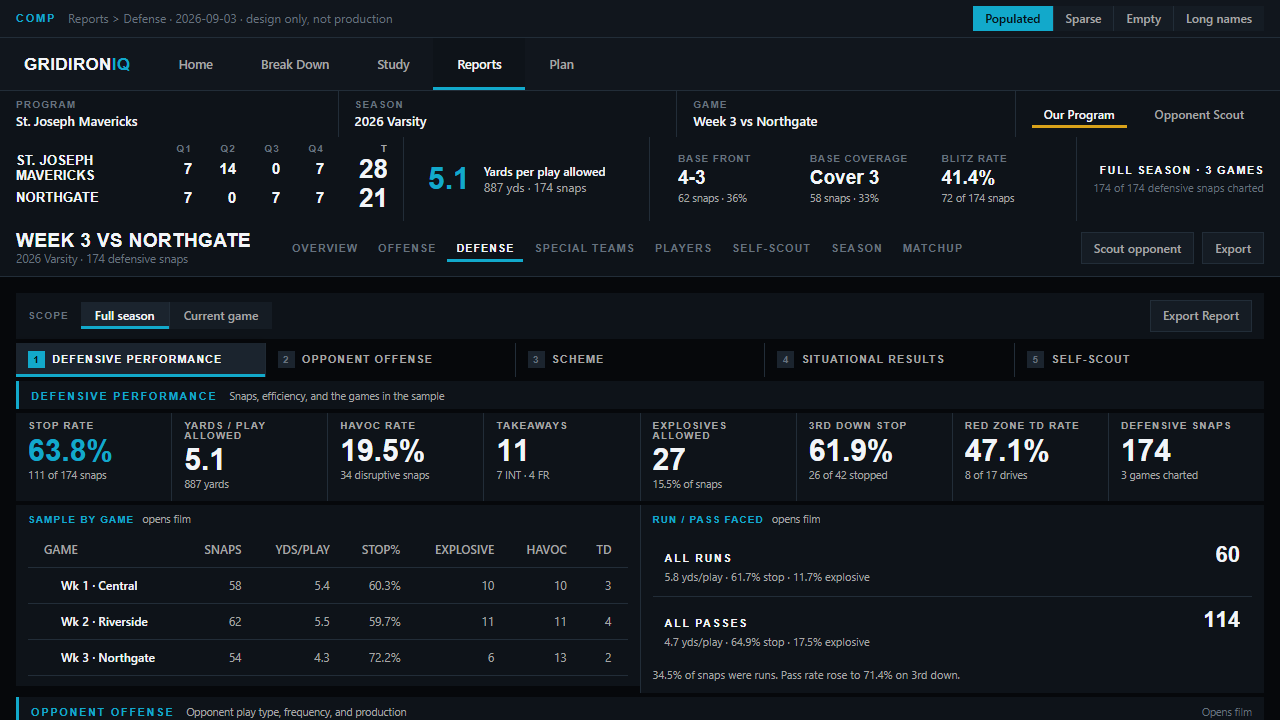
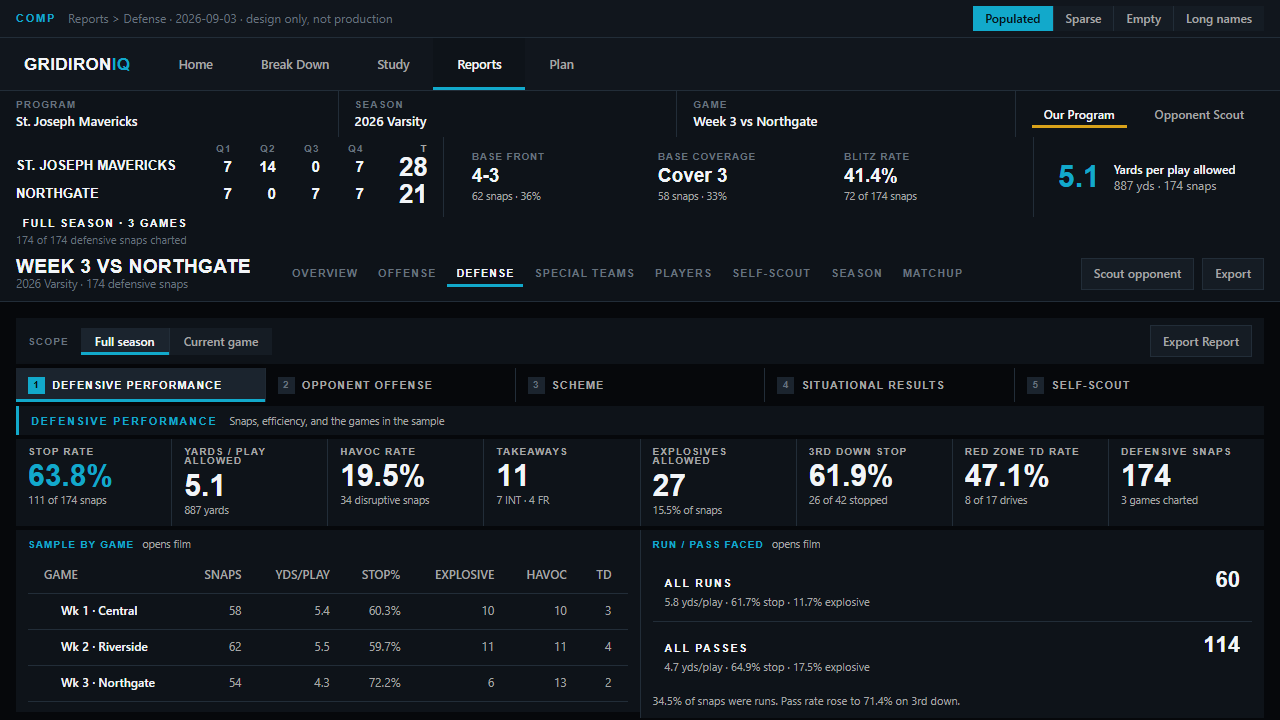
design: section nav becomes real tabs; no wrapped or truncated text
Coach could not tell the five section captures apart, and was right not to:
as scroll anchors they were one long page photographed at five heights. The
nav is now a tab strip -- one section at a time, each its own surface.

Text: neither truncated nor wrapped
Wrapping was the previous fix for truncation and is barely better. Modules are
sized to fit their text on one line instead. The scorebug's regions now flow
and wrap as blocks rather than sitting in fixed columns, so the linescore
takes the width its longest name actually needs; a fixed four-column grid had
squeezed that column to 132px, which is why "St. Joseph Mavericks" was being
cut at 1280. If the regions cannot all fit one row the bug becomes two rows --
vertical space is cheap, and data worth the scroll may require the scroll.

Score alignment holds: the three rows share one grid, so the name column is
sized once from the longest name and both totals stay in one track (548/548
with long names and three-digit scores).

Tabs rebalanced so none is thin
Tab 1 ended 220px short of the fold. Disruption moved into Defensive
performance, where it belongs -- sacks, TFL, takeaways and havoc are
performance, not situation -- and Scheme by situation moved from Self-scout to
Situational results, beside Situational defense.

The long-name state now renames the matchup everywhere. It had renamed only
the scorebug, leaving the report head and context bar naming a different
opponent than the two teams on the linescore.
[…]

diff --git a/design-comps/reports-defense-2026-09-03/defense.html b/design-comps/reports-defense-2026-09-03/defense.html
@@ -81,23 +81,23 @@ button{font-family:inherit}
    bounded on its own and truncates with the full value in a tooltip.
    ─────────────────────────────────────────────────────────────────────── */
 .scorebug{
-  --sb-name:clamp(260px,30vw,430px); --sb-q:44px; --sb-tot:64px;
-  display:grid;grid-template-columns:auto auto minmax(370px,1fr) auto;
+  --sb-name:520px; --sb-q:44px; --sb-tot:64px;
+  display:flex;flex-wrap:wrap;align-items:stretch;
   background:var(--gi-bd-panel)
 }
-.scorebug>.sb-score{grid-column:1;grid-row:1}
+.scorebug>.sb-score{flex:0 0 auto}
 
 
-.sb-story{grid-column:2;grid-row:1}
-.sb-ident{grid-column:3;grid-row:1;display:grid;grid-auto-flow:column;grid-auto-columns:minmax(0,1fr);align-items:center;padding:0 var(--gi-4x);box-shadow:-1px 0 var(--gi-bd-line)}
+.sb-story{flex:0 0 auto}
+.sb-ident{flex:1 1 auto;min-width:420px;display:grid;grid-auto-flow:column;grid-auto-columns:minmax(0,1fr);align-items:center;padding:0 var(--gi-4x);box-shadow:-1px 0 var(--gi-bd-line)}
 .sb-ident>div{min-width:0;padding:0 var(--gi-3x)}
-.sb-ident span{display:block;color:var(--gi-bd-muted);font:700 9.5px/1 var(--gi-cond);letter-spacing:.12em;text-transform:uppercase;white-space:normal}
-.sb-ident strong{display:block;margin-top:5px;color:var(--gi-bd-strong);font:700 19px/1.1 var(--gi-cond);white-space:normal;overflow-wrap:anywhere}
-.sb-ident small{display:block;margin-top:3px;color:var(--gi-bd-copy);font:400 10.5px/1.2 var(--gi-sans);white-space:normal}
-.sb-meta{grid-column:4;grid-row:1}
+.sb-ident span{display:block;color:var(--gi-bd-muted);font:700 9.5px/1 var(--gi-cond);letter-spacing:.12em;text-transform:uppercase;white-space:nowrap}
+.sb-ident strong{display:block;margin-top:5px;color:var(--gi-bd-strong);font:700 19px/1.1 var(--gi-cond);white-space:nowrap}
+.sb-ident small{display:block;margin-top:3px;color:var(--gi-bd-copy);font:400 10.5px/1.2 var(--gi-sans);white-space:nowrap}
+.sb-meta{flex:0 0 auto}
 .sb-score{
   display:grid;align-items:center;
-  grid-template-columns:fit-content(var(--sb-name)) repeat(4,var(--sb-q)) var(--sb-tot);
+  grid-template-columns:max-content repeat(4,var(--sb-q)) var(--sb-tot);
   padding:7px var(--gi-4x) 9px
 }
 .sb-line{display:contents}
@@ -107,7 +107,7 @@ button{font-family:inherit}
 .sb-name{
   min-width:0;padding-right:var(--gi-3x)!important;text-align:left!important;
   color:var(--gi-bd-strong);font:700 12.5px/1.25 var(--gi-cond);letter-spacing:.04em;text-transform:uppercase;
-  white-space:normal;overflow-wrap:anywhere
+  white-space:nowrap
 }
 .sb-q{color:var(--gi-bd-strong);font:600 15px/1.25 var(--gi-cond);font-variant-numeric:var(--gi-num-feat)}
 .sb-tot{color:var(--gi-bd-strong);font:700 26px/1.05 var(--gi-cond);font-variant-numeric:var(--gi-num-feat)}
@@ -178,6 +178,7 @@ button{font-family:inherit}
 .snav button:hover{background:var(--gi-bd-control);color:var(--gi-bd-strong)}
 .snav button:hover>b{background:var(--gi-bd-draw);color:var(--gi-bd-stage)}
 .snav button:focus-visible{outline:2px solid var(--gi-bd-cyan);outline-offset:-2px}
+.snav button[disabled]{opacity:.45;cursor:not-allowed}
 .snav button.on{color:var(--gi-bd-strong);background:var(--gi-bd-control-active);
   box-shadow:inset 0 -3px var(--gi-bd-cyan),var(--gi-raise-tab)}
 .snav button.on>b{background:var(--gi-bd-cyan);color:var(--gi-bd-cyan-ink)}
@@ -317,7 +318,7 @@ tbody tr.cut:focus-visible td:first-child::before{opacity:1}
 <div class="ctxbar">
   <div><span>Program</span><strong>St. Joseph Mavericks</strong></div>
   <div><span>Season</span><strong>2026 Varsity</strong></div>
-  <div><span>Game</span><strong>Week 3 vs Northgate</strong></div>
+  <div><span>Game</span><strong id="ctxGame">Week 3 vs Northgate</strong></div>
   <div class="persp"><button type="button" class="on">Our Program</button><button type="button">Opponent Scout</button></div>
 </div>
 
@@ -413,7 +414,12 @@ tbody tr.cut:focus-visible td:first-child::before{opacity:1}
       </section>
     </div>
 
-    <div class="srule" id="d2"><h2>Opponent Offense</h2><p>Opponent play type, frequency, and production</p><em>Opens film</em></div>
+    <div class="band b-1">
+      <section class="mod">
+        <header><strong>Disruption</strong><span>opens film</span></header>
+        <div class="tiles c4" id="tDisruption"></div>
+      </section>
+    </div>    <div class="srule" id="d2"><h2>Opponent Offense</h2><p>Opponent play type, frequency, and production</p><em>Opens film</em></div>
     <div class="band b-2">
       <section class="mod">
         <header><strong>Opponent play type</strong><span id="ptMeta"></span></header>
@@ -477,8 +483,11 @@ tbody tr.cut:focus-visible td:first-child::before{opacity:1}
         </table></div>
       </section>
       <section class="mod">
-        <header><strong>Disruption</strong><span>opens film</span></header>
-        <div class="tiles c2" id="tDisruption"></div>
+        <header><strong>Scheme by situation</strong><span>top call per bucket</span></header>
+        <div class="twrap"><table>
+          <thead><tr><th>Situation</th><th>Snaps</th><th class="tl">Top front</th><th class="tl">Top coverage</th><th>Blitz%</th><th>Stop%</th><th>Havoc%</th></tr></thead>
+          <tbody id="tSchemeSit"></tbody>
+        </table></div>
       </section>
     </div>
 
@@ -493,13 +502,7 @@ tbody tr.cut:focus-visible td:first-child::before{opacity:1}
         </div>
         <div class="recs" id="tRecs"></div>
       </section>
-      <section class="mod">
-        <header><strong>Scheme by situation</strong><span>top call per bucket</span></header>
-        <div class="twrap"><table>
-          <thead><tr><th>Situation</th><th>Snaps</th><th class="tl">Top front</th><th class="tl">Top coverage</th><th>Blitz%</th><th>Stop%</th><th>Havoc%</th></tr></thead>
-          <tbody id="tSchemeSit"></tbody>
-        </table></div>
-      </section>
+
     </div>
 
     <div class="band b-1">
@@ -745,6 +748,7 @@ function render(d) {
   ['d2', 'd3', 'd4', 'd5'].forEach(id => { $('#' + id).hidden = thin; });
   $$('#report .band').forEach((b, i) => { if (i > 0 && b.id !== 'sparseNote') b.hidden = thin; });
   $$('.snav button').forEach(b => { b.disabled = thin && b.dataset.sec !== 'd1'; });
+  if (thin) showSection('d1'); else if (section) showSection(section);
   if (thin) return;
 
   $('#ptMeta').textContent = `${d.snaps} snaps`;
@@ -800,6 +804,12 @@ function applyScope(d, longNames) {
   const us = longNames ? 'Immaculate Heart of Mary Catholic Academy' : 'St. Joseph Mavericks';
   const them = longNames ? 'Our Lady of Perpetual Help Prep' : 'Northgate';
   $('#sbUsName').textContent = $('#sbUsName').title = us;
+  /* The matchup is one fact. Renaming only the scorebug left the header and
+     the context bar naming a different opponent. */
+  const title = longNames ? 'Week 3 vs Our Lady of Perpetual Help Prep' : 'Week 3 vs Northgate';
+  $('.rhead h1').textContent = title;
+  $('#ctxGame').textContent = title;
+  if (state !== 'sparse') $('#sbMeta').textContent = longNames ? title : d.scopeLabel;
   $('#sbThemName').textContent = $('#sbThemName').title = them;
   $('#sbUs').textContent = longNames ? '118' : '28';
   $('#sbThem').textContent = longNames ? '107' : '21';
@@ -827,26 +837,34 @@ $$('.comp-bar .grp button').forEach(b => b.addEventListener('click', () => {
   paint();
 }));
 
-/* Section nav. The active item is derived from scroll position on every
-   scroll, so it can never be left pointing at a section that scrolled past —
-   an IntersectionObserver alone left "Self-scout" lit at the top of the page. */
-$$('.snav button').forEach(b => b.addEventListener('click', () => {
-  const t = document.getElementById(b.dataset.sec);
-  if (!t) return;
-  const reduce = matchMedia('(prefers-reduced-motion: reduce)').matches;
-  t.scrollIntoView({ behavior: reduce ? 'auto' : 'smooth', block: 'start' });
-}));
-const syncNav = () => {
-  const rules = $$('.srule').filter(r => !r.hidden);
-  let active = rules[0]?.id;
-  rules.forEach(r => { if (r.getBoundingClientRect().top <= 140) active = r.id; });
-  $$('.snav button').forEach(b => b.classList.toggle('on', b.dataset.sec === active));
-};
-addEventListener('scroll', syncNav, { passive: true });
-addEventListener('resize', syncNav);
-
+/* Section tabs: one section at a time. The report carries five distinct
+   bodies of analysis and as scroll anchors they read as one undifferentiated
+   page, so each is now its own surface. */
+let section = 'd1';
+const SECTION_OF = new Map();
+function indexSections() {
+  SECTION_OF.clear();
+  let current = null;
+  [...$('#report').children].forEach(el => {
+    if (el.classList.contains('srule')) current = el.id;
+    if (current) SECTION_OF.set(el, current);
+  });
+}
+function showSection(id) {
+  section = id;
+  $$('.snav button').forEach(b => {
+    const on = b.dataset.sec === id;
+    b.classList.toggle('on', on);
+    b.setAttribute('aria-selected', String(on));
+  });
+  SECTION_OF.forEach((owner, el) => { el.hidden = owner !== id; });
+  if ($('#sparseNote')) $('#sparseNote').hidden = !(section === 'd1' && dataFor().sparse);
+  scrollTo({ top: 0, behavior: 'auto' });
+}
+$$('.snav button').forEach(b => b.addEventListener('click', () => showSection(b.dataset.sec)));
+indexSections();
 paint();
-syncNav();
+showSection('d1');
 </script>
 </body>
 </html>
